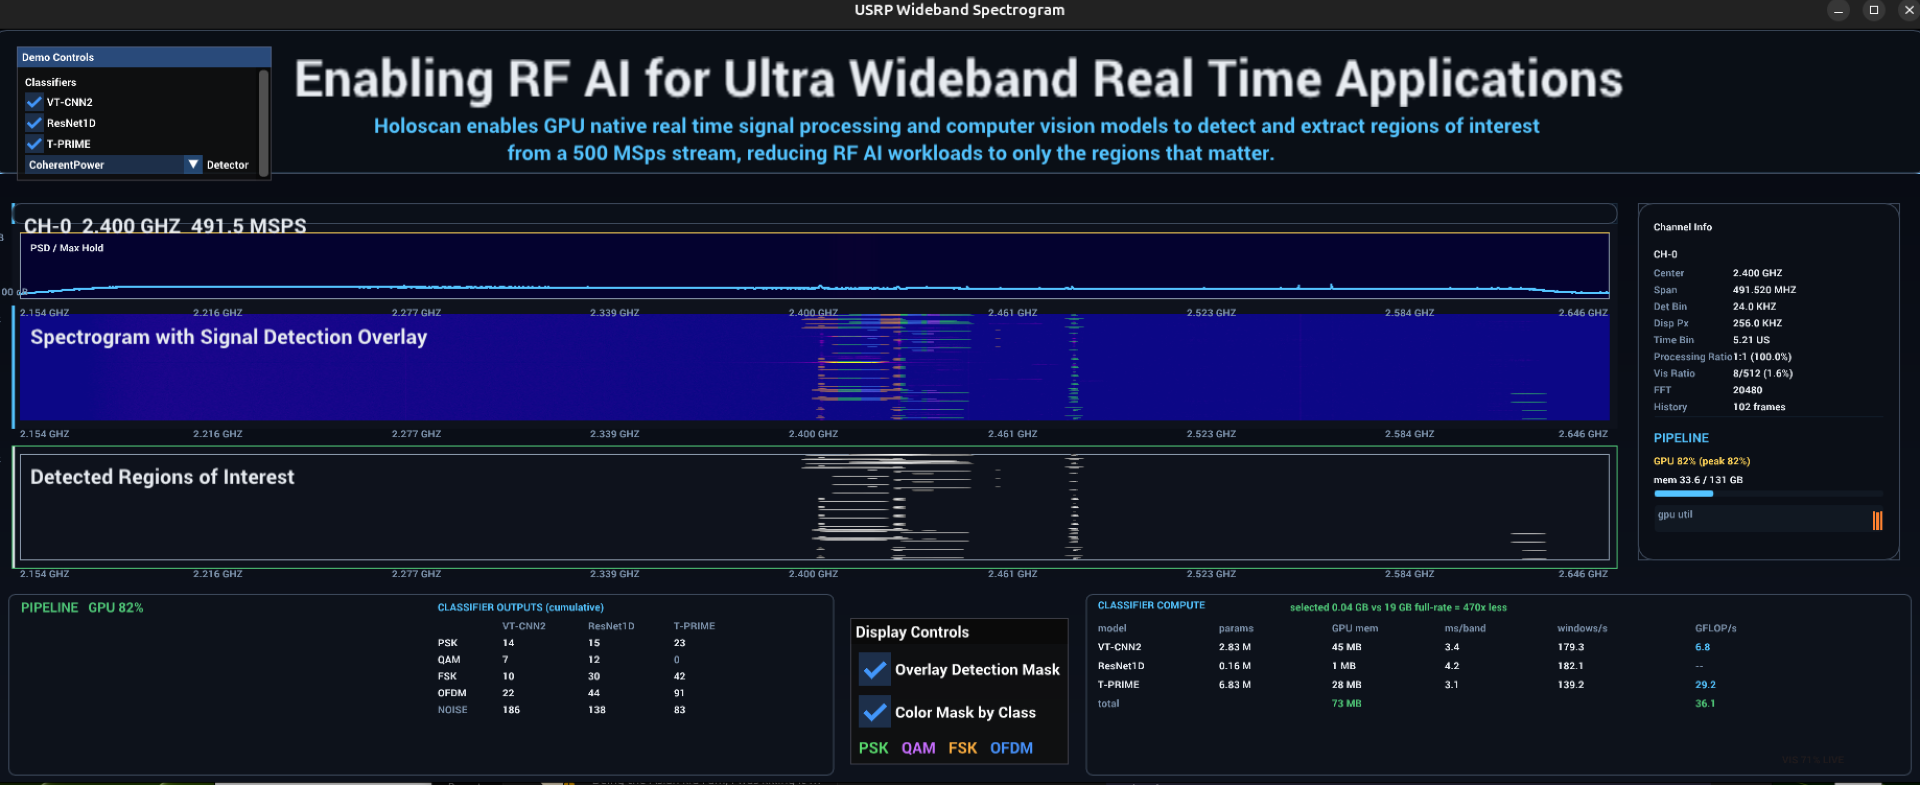
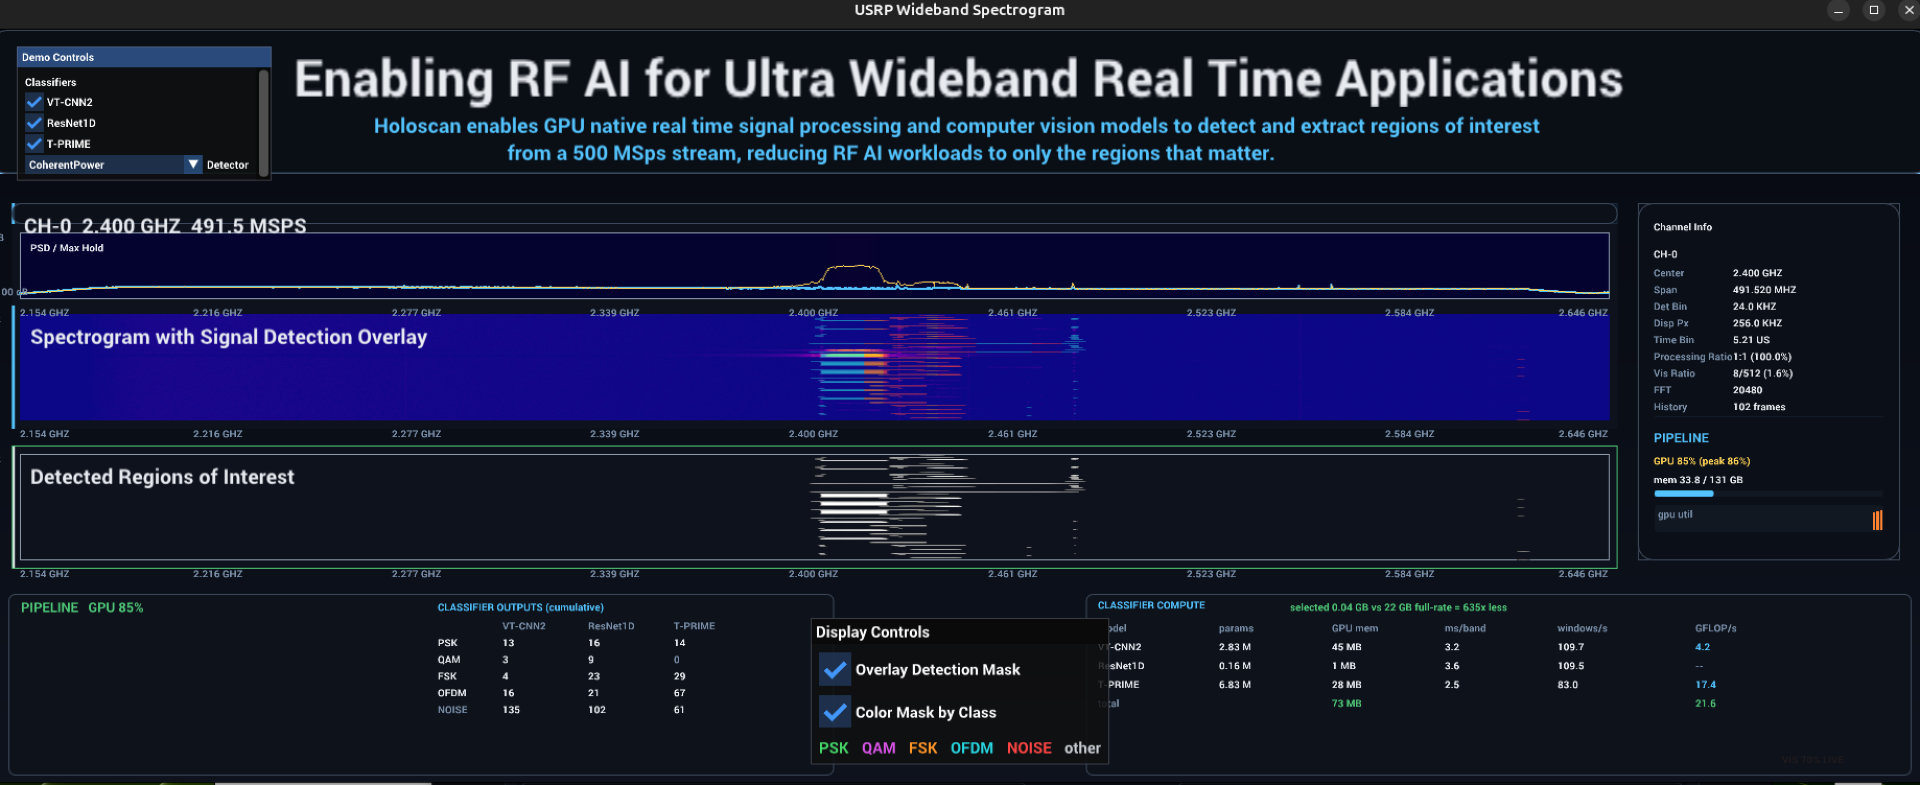
dino_ft: refresh class-overlay artifacts with the 5-distinct-color palette
New captures (NOISE=red, OFDM=cyan, PSK green / QAM magenta / FSK orange; neutral gray for
unclassified). comparison.png + dashboard_clean.png + zooms regenerated; README palette/counts updated.

diff --git a/applications/usrp_wideband_signal_detection/infocom_evals/signal_detection_experiments/dino_ft_class_overlay/README.md b/applications/usrp_wideband_signal_detection/infocom_evals/signal_detection_experiments/dino_ft_class_overlay/README.md
@@ -4,6 +4,9 @@ The "Color Mask by Class" dashboard toggle colors the detection-mask overlay by 
 predicted modulation class. Validated live on the network loopback (aligned 491.52 MSps capture,
 classify-only AMC daemon: VT-CNN2 + ResNet1D + T-PRIME, gate T-PRIME).
 
+Palette (5 distinct hues, legible on the blue waterfall): PSK green, QAM magenta, FSK orange, OFDM cyan,
+NOISE red; detected-but-unclassified columns show a neutral gray (no lime-vs-green clash, no blue-on-blue).
+
 Driver: `capture_overlay.sh` (env CONFIG_NAME / DAEMON / LABEL). Artifact: RSdrKitPhtsFgSsyX5K3Ca.
 
 ## Conditions (results/)
@@ -13,12 +16,12 @@ Driver: `capture_overlay.sh` (env CONFIG_NAME / DAEMON / LABEL). Artifact: RSdrK
 
 | Condition | Detector | Classifier | Overlay | recent_decodes |
 |---|---|---|---|---|
-| class colors | DINO-FT M3 | on | multi-color (OFDM blue dominant), 0 lime | 16 (OFDM 5, PSK 1, NOISE 10) |
+| class colors | DINO-FT M3 | on | multi-color, all 5 classes distinct | 16 (OFDM 5, NOISE 6, FSK 3, PSK 2) |
 | fallback | DINO-FT M3 | off | uniform lime (no markers) | 0 |
-| detector-agnostic | coherent_power | on | class-colored noisier masks | 16 (OFDM 8, FSK 1, NOISE 7) |
+| detector-agnostic | coherent_power | on | class-colored noisier masks | 16 (OFDM 8, NOISE 5, FSK 2, PSK 1) |
 
 Real-time at full radio rate (tcpreplay 480k pps = 491.52 MSps), GPU ~82%, CHDR partial_drops = 0 in
-all three. Overlay pixel counts (DINO+cls zoom): OFDM 1157, FSK 47, QAM 32, PSK 12, lime 0.
+all three. All five class hues render distinctly; cyan (OFDM) and red (NOISE) stand off the blue background.
 
 ## Requires (why it lights up)
 - classify-only daemon now emits a per-signal frequency-tagged class marker (rt_decode_daemon.py); the
